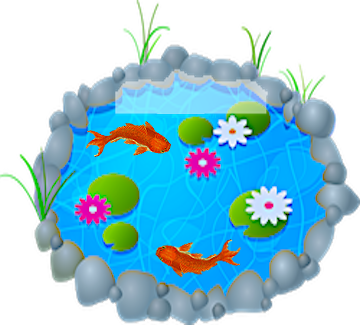
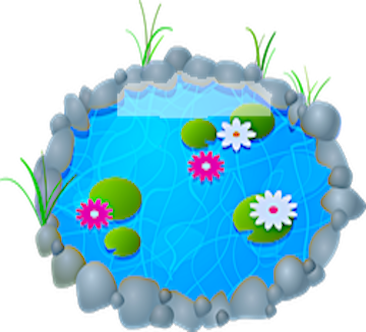
commit

diff --git a/zen-template/index.html b/zen-template/index.html
@@ -211,10 +211,12 @@
 				<rect width="90" height="110" x="241" y="360" rx="40" fill="url(#my3pattern)" stroke="black"
 					stroke-width="2" />
 				<rect width="61" height="95" x="255" y="375" rx="30" />
-				<rect width="90" height="40" x="241" y="432" rx="5" fill="url(#my3pattern)" stroke="black" stroke-width="2" />
+				<rect width="90" height="40" x="241" y="432" rx="5" fill="url(#my3pattern)" stroke="black"
+					stroke-width="2" />
 				<rect width="81" height="100" x="245" y="365" rx="40" fill="yellow" opacity=".3" />
 				<rect width="40" height="45" x="265" y="420" fill="crimson" rx="30" />
-				<rect width="8" height="15" x="280" y="445" fill="blue" rx="10" stroke="darkturquoise" stroke-width="2" />
+				<rect width="8" height="15" x="280" y="445" fill="blue" rx="10" stroke="darkturquoise"
+					stroke-width="2" />
 
 				<!--flame-->
 				<svg version="1.1" id="Capa_1" xmlns="http://www.w3.org/2000/svg"
@@ -390,7 +392,34 @@
 			</p>
 		</div>
 		<img src="images/cover3A.png" id="cover3" alt="grass cover">
-		<div> <img src="images/block4fish2.png" id="block4" alt="blue pond with koi fish"></div>
+		<!--block4pond-->
+		<svg width="360" height="350" x="0" y="0" class="block4">
+			<defs>
+				<!--define grass pattern-->
+				<pattern id="grassPattern" patternUnits="userSpaceOnUse" x="0" y="0" height="50" width="30">
+					<line x1="0" y1="0" x2="15" y2="50" style="stroke:darkolivegreen;stroke-width:1" />
+					<line x1="15" y1="10" x2="15" y2="50" style="stroke:darkolivegreen;stroke-width:1" />
+					<line x1="30" y1="5" x2="15" y2="50" style="stroke:darkslategray;stroke-width:1" />
+					<line x1="20" y1="0" x2="31" y2="37" style="stroke:green;stroke-width:1" />
+					<line x1="15" y1="0" x2="27.5" y2="45" style="stroke:darkolivegreen;stroke-width:1" />
+					<line x1="25" y1="0" x2="35" y2="30" style="stroke:darkslategrey;stroke-width:1" />
+				</pattern>
+			</defs>
+
+			<!--build block4 pond-->
+			<rect width="360" height="335" x="0" y="15" rx="10" fill="olivedrab" />
+			<rect width="360" height="335" x="0" y="15" rx="10" fill="url(#grassPattern)" />
+			<rect width="100" height="50" x="0" y="0" fill="url(#treePattern)" />
+			<rect width="100" height="50" x="250" y="0" fill="url(#treePattern)" />
+			<rect width="50" height="50" x="0" y="50" fill="url(#treePattern)" />
+			<rect width="50" height="50" x="300" y="50" fill="url(#treePattern)" />
+			<rect width="350" height="50" x="0" y="300" fill="url(#treePattern)" />
+			<rect width="310" height="263" x=20 y="35" rx="200" fill="#23c8ff" />
+			<rect width="310" height="263" x=20 y="35" rx="200" fill="url(#waterPattern)" />
+			<rect width="50" height="50" x="300" y="250" fill="url(#treePattern)" />
+			<rect width="50" height="50" x="0" y="250" fill="url(#treePattern)" />
+
+		</svg>
 		<div class="benefits" id="zen-benefits" role="article">
 
 			<h3>Benefits</h3>

diff --git a/zen-template/css/small.css b/zen-template/css/small.css
@@ -288,9 +288,10 @@ div.participation h3 {
     border-radius: 20px;
 }
 
-#block4 {
+svg.block4 {
     margin-top: 27px;
     margin-left: -6px;
+    padding: 0 0 50px 0;
 }
 
 div.benefits {
@@ -298,8 +299,8 @@ div.benefits {
     position: absolute;
     width: 220px;
     font-size: 16px;
-    margin-top: -300px;
-    margin-left: 64px;
+    margin-top: -370px;
+    margin-left: 60px;
     text-align: center;
 }
 
@@ -311,10 +312,9 @@ div.benefits h3 {
 }
 
 #cover4 {
-    display: block;
     position: absolute;
-    margin-top: -349px;
-    margin-left: -14px;
+    margin-top: -430px;
+    margin-left: -25px;
 }
 
 #block5 {
